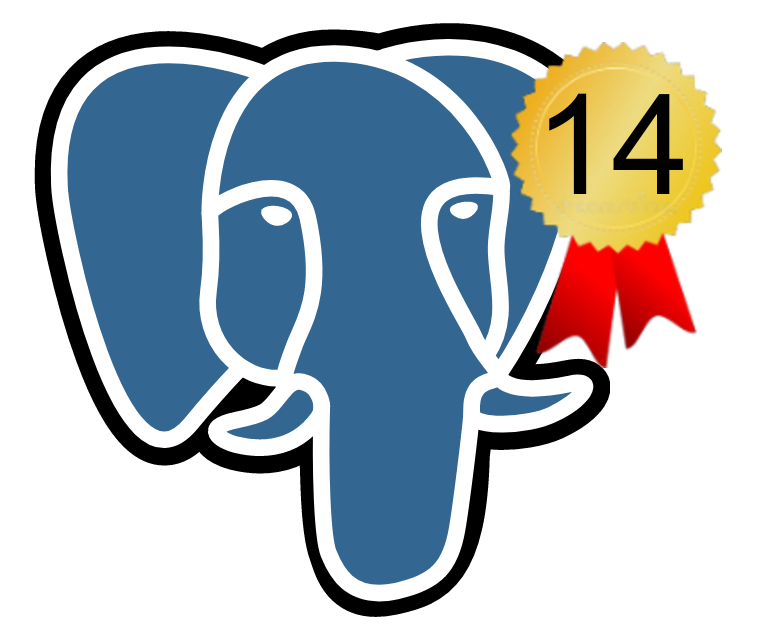
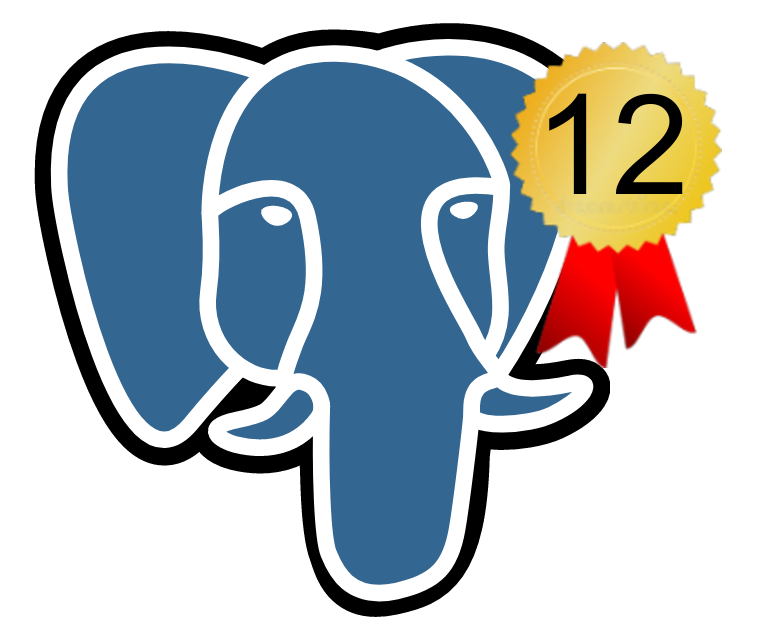
[ADD] query_deluxe

Changed region(s): [[0.7889, 0.1494, 0.9103, 0.3286]]

diff --git a/query_deluxe/static/description/index.html b/query_deluxe/static/description/index.html
@@ -75,6 +75,7 @@
         <div class="oe_span12 oe_demo oe_picture oe_screenshot">
             <img src="print_pdf.png"/>
         </div>
+
         <div class="oe_span12 oe_demo oe_picture oe_screenshot">
             <img src="pdf.png"/>
         </div>

diff --git a/query_deluxe/__manifest__.py b/query_deluxe/__manifest__.py
@@ -4,7 +4,7 @@
         'author': 'Yvan Dotet',
         'depends': ['base', 'mail'],
         'application': True,
-        'version': '14.0.1.0.0',
+        'version': '12.0.1.0.0',
         'license': 'AGPL-3',
         'support': 'yvandotet@yahoo.fr',
         'website': 'https://github.com/YvanDotet/',

diff --git a/query_deluxe/doc/index.rst b/query_deluxe/doc/index.rst
@@ -15,7 +15,7 @@ Usage
 
 Go to "Apps" menu and type "query_deluxe" into the search box.
 
-Odoo version 14
+Odoo version 12
 
 Credits
 =======
